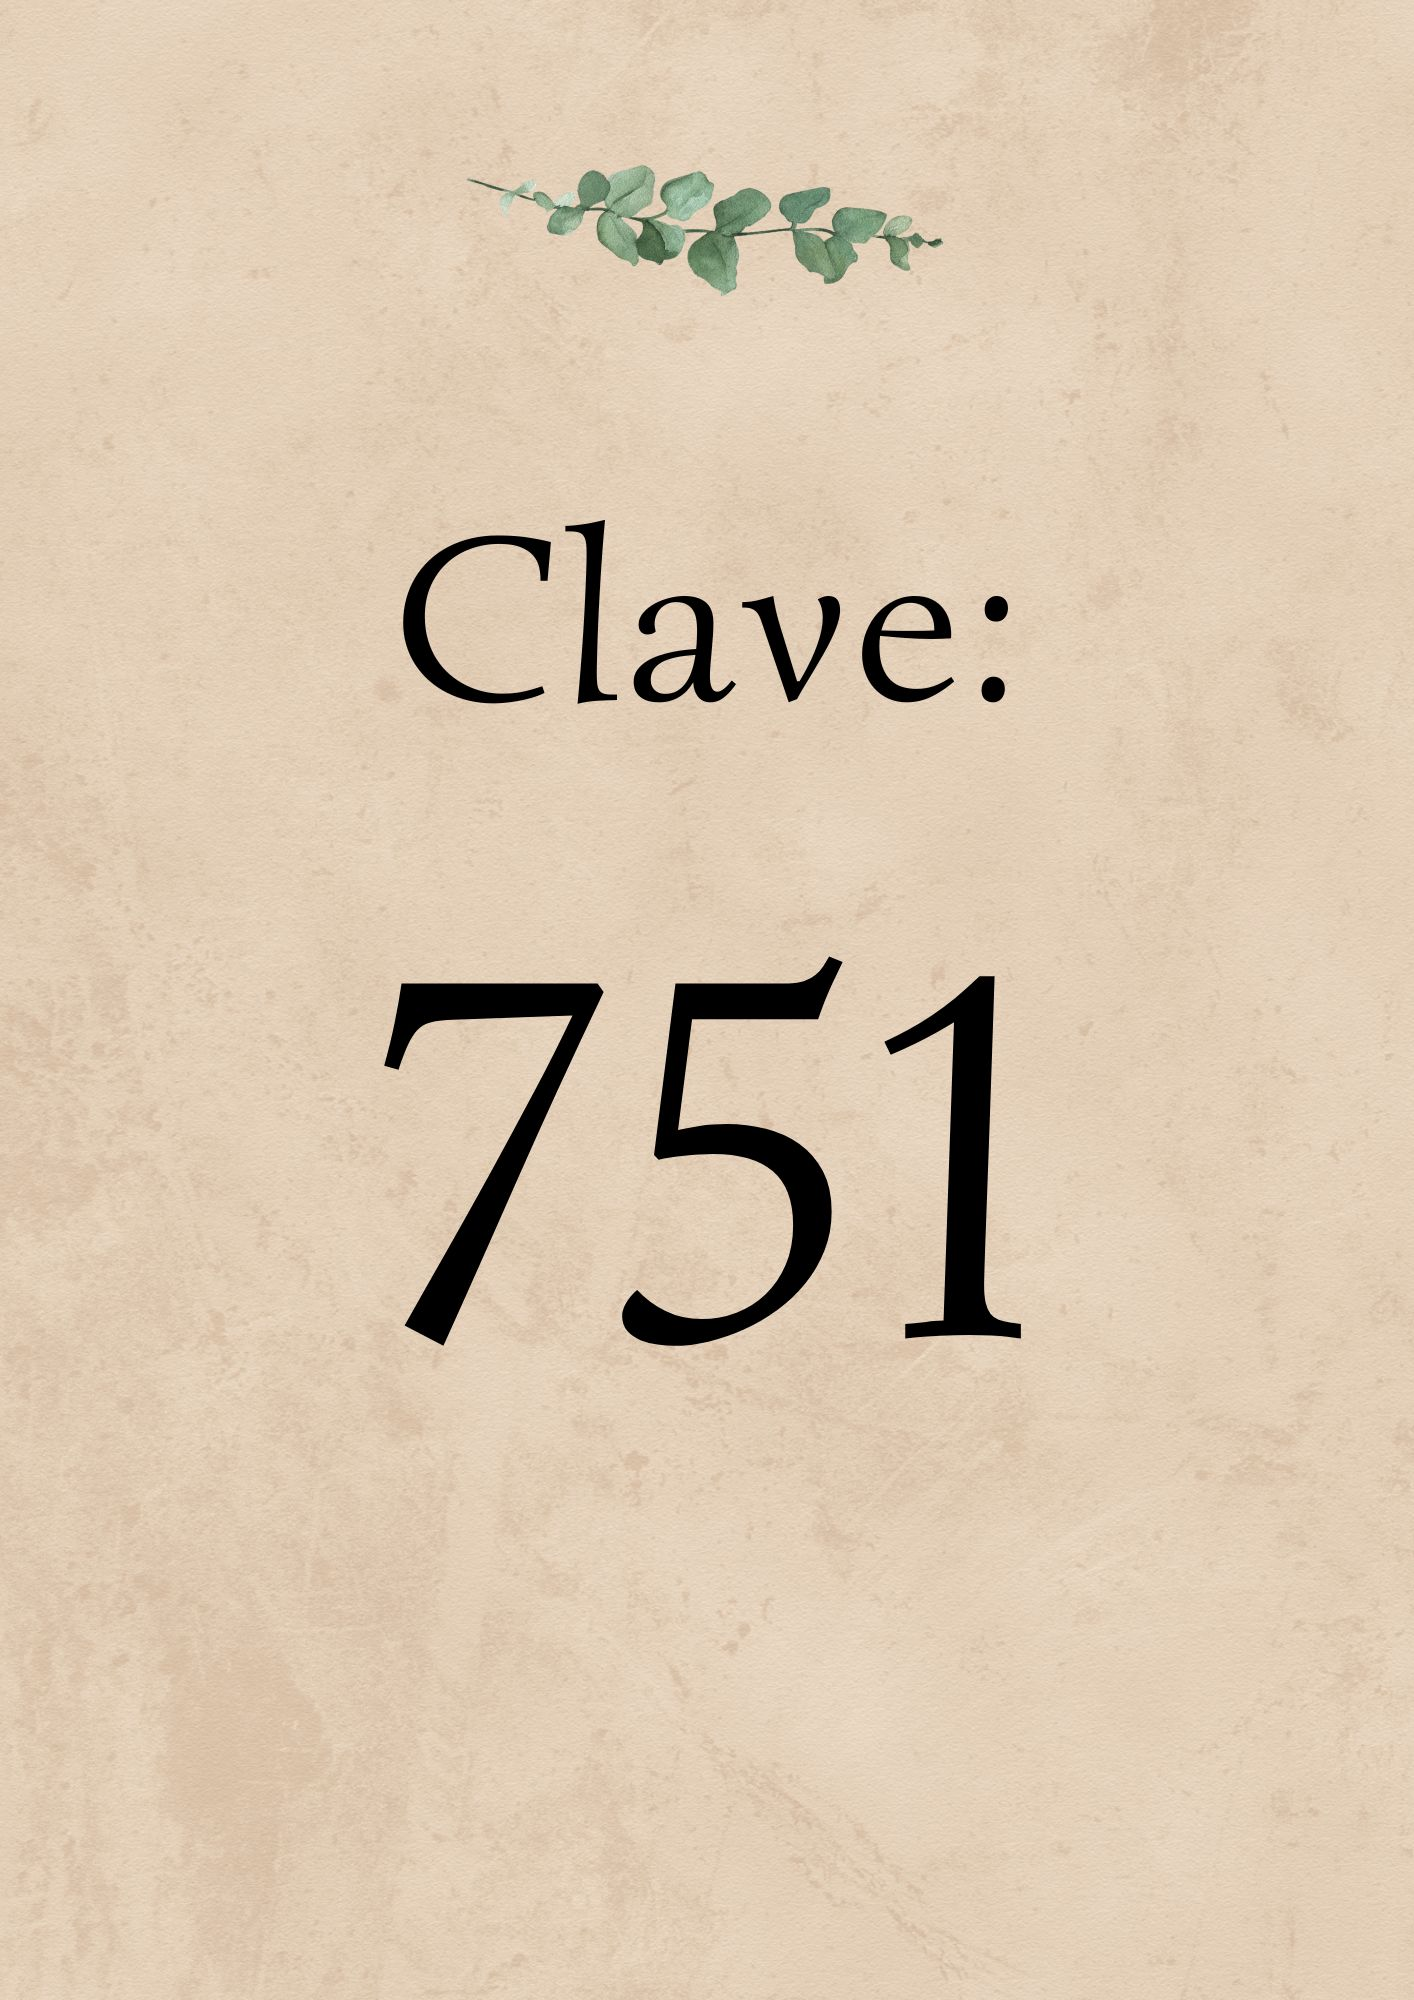
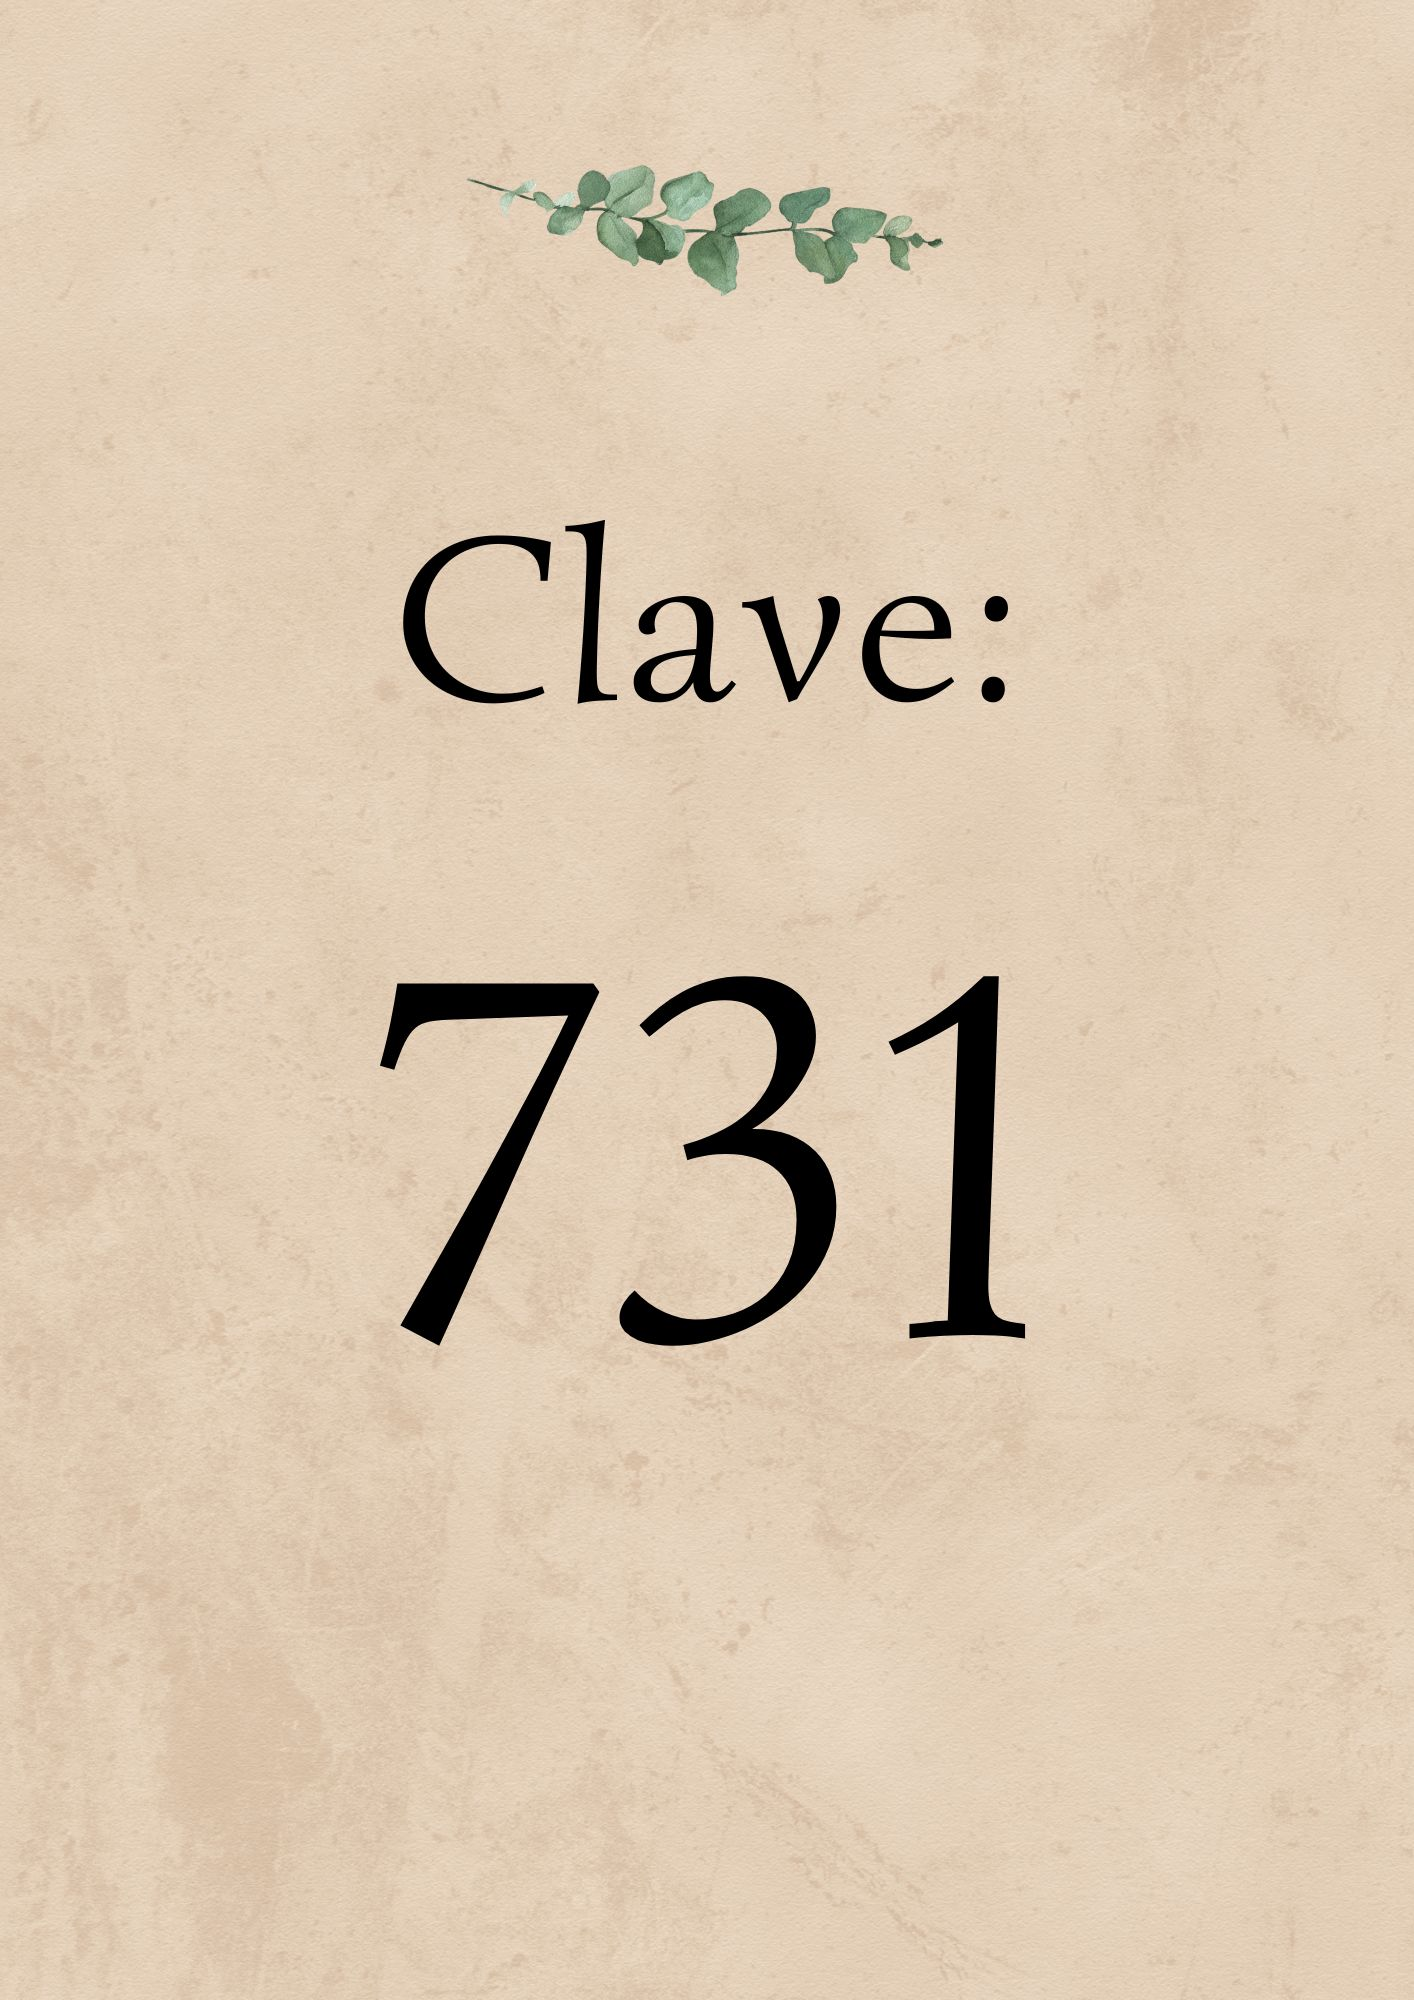
feat: final

diff --git a/Assets/Candado/Scripts/LockControl.cs b/Assets/Candado/Scripts/LockControl.cs
@@ -13,7 +13,7 @@ public class LockControl : MonoBehaviour
     void Start()
     {
         result = new int[]{0,0,0};
-        correctCombination = new int[] {1,2,3};
+        correctCombination = new int[] {7,5,1};
         RotatePadlock.Rotated += CheckResults;
         animator = this.GetComponent<Animator>();
         
